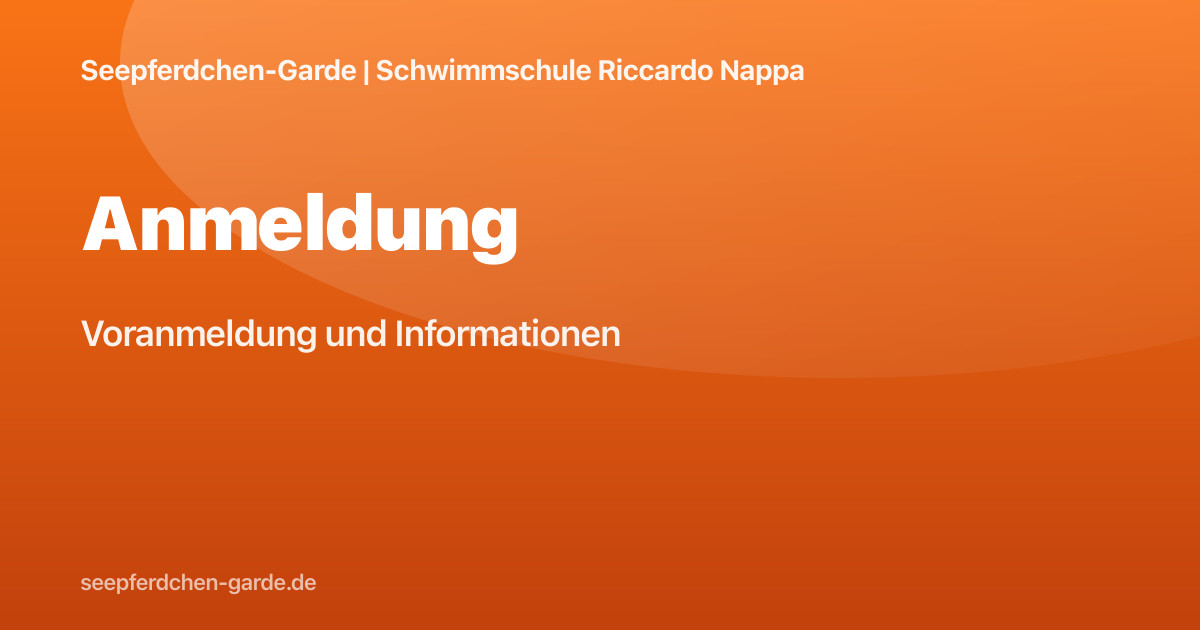
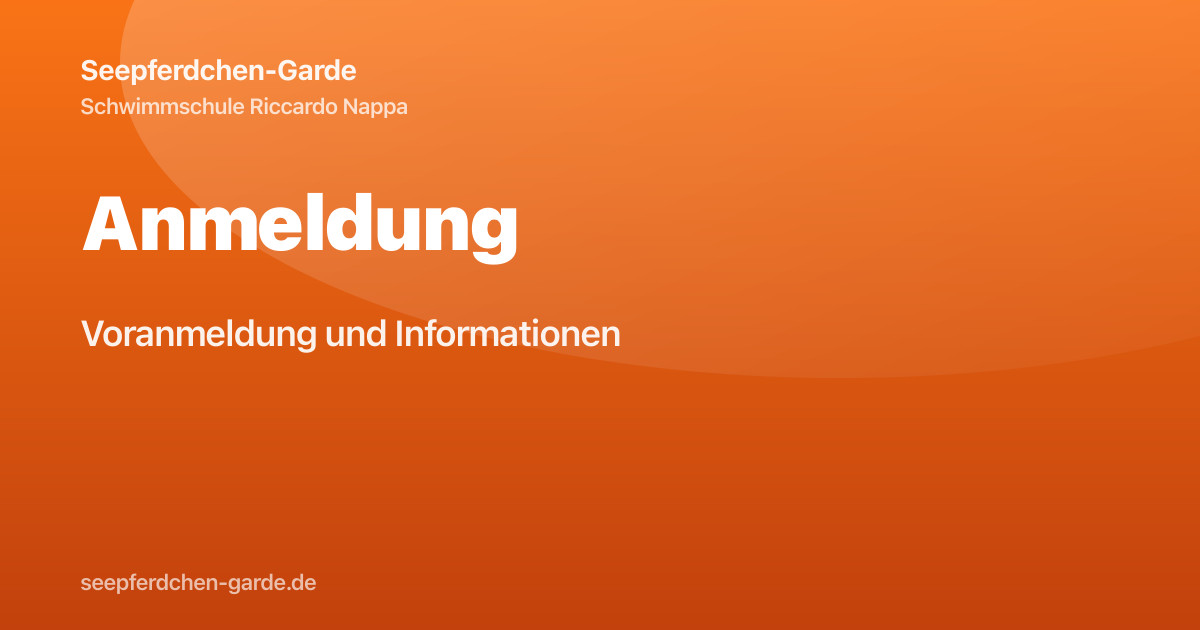
feat(app): create Haftungsausschluss docs and page

Changed region(s): [[0.0617, 0.0905, 0.6783, 0.181]]

diff --git a/generate-og.js b/generate-og.js
@@ -6,7 +6,9 @@ const sharp = require('sharp');
 const OUT_DIR = path.join(process.cwd(), 'public', 'assets', 'og');
 const WIDTH = 1200;
 const HEIGHT = 630;
-const BRAND = 'Seepferdchen‑Garde | Schwimmschule Riccardo Nappa';
+const BRAND = 'Seepferdchen‑Garde';
+const BRAND_SUBLINE = 'Schwimmschule Riccardo Nappa';
+
 
 const pages = [
   {slug: 'start', title: 'Startseite', subtitle: 'Schwimmschule Riccardo Nappa'},
@@ -15,6 +17,7 @@ const pages = [
   {slug: 'kontakt', title: 'Kontakt', subtitle: 'Telefon, WhatsApp oder Kontaktformular'},
   {slug: 'anmeldung', title: 'Anmeldung', subtitle: 'Voranmeldung und Informationen'},
   {slug: 'impressum', title: 'Impressum', subtitle: 'Anbieterkennzeichnung und Kontakt'},
+  {slug: 'haftungsausschluss', title: 'Haftungsausschluss', subtitle: 'Haftungsausschluss für die Teilnahme am Schwimmkurs'},
   {slug: 'datenschutz', title: 'Datenschutzerklärung', subtitle: 'Informationen zum Datenschutz'},
 ];
 
@@ -26,6 +29,7 @@ const palettes = {
   kontakt: ['#06b6d4', '#0e7490'],
   anmeldung: ['#f97316', '#c2410c'],
   impressum: ['#64748b', '#334155'],
+  haftungsausschluss: ['#f43f5e', '#9f1239'],
   datenschutz: ['#14b8a6', '#0f766e'],
 };
 
@@ -52,7 +56,7 @@ function escapeXml(str) {
     .replace(/>/g, '&gt;');
 }
 
-function makeSVG({title, subtitle, brand, colors}) {
+function makeSVG({title, subtitle, brand, brandSubline, colors}) {
   const [c1, c2] = colors;
   const pad = 80;
   const titleLines = wrapLines(title, 22);
@@ -92,6 +96,10 @@ function makeSVG({title, subtitle, brand, colors}) {
   <text x="${pad}" y="${pad}" fill="rgba(255,255,255,0.92)" font-family="system-ui, -apple-system, Segoe UI, Roboto, Arial, sans-serif" font-size="28" font-weight="700">
     ${escapeXml(brand)}
   </text>
+  <!-- Brand subline -->
+  <text x="${pad}" y="${pad + 34}" fill="rgba(255,255,255,0.75)" font-family="system-ui, -apple-system, Segoe UI, Roboto, Arial, sans-serif" font-size="22" font-weight="600">
+    ${escapeXml(brandSubline || '')}
+  </text>
 
   <!-- Title -->
   <text x="${pad}" y="${titleYStart}" fill="#ffffff" font-family="system-ui, -apple-system, Segoe UI, Roboto, Arial, sans-serif" font-size="76" font-weight="800" letter-spacing="0.5">
@@ -117,7 +125,7 @@ async function ensureOutDir() {
 
 async function generateOne({slug, title, subtitle}) {
   const colors = palettes[slug] || ['#0ea5e9', '#0369a1'];
-  const svg = makeSVG({title, subtitle, brand: BRAND, colors});
+  const svg = makeSVG({title, subtitle, brand: BRAND, brandSubline: BRAND_SUBLINE, colors});
   const outFile = path.join(OUT_DIR, `${slug}.jpg`);
   await sharp(Buffer.from(svg))
     .jpeg({quality: 90, progressive: true, chromaSubsampling: '4:4:4'})

diff --git a/assets/styles/theme.css b/assets/styles/theme.css
@@ -49,10 +49,24 @@ a[href^="https://wa.me/"] svg {
 }
 
 /* === Selection colors per theme for readability === */
-[data-bs-theme="light"] ::selection { background-color: #0ea5e9; color: #ffffff; }
-[data-bs-theme="light"] ::-moz-selection { background-color: #0ea5e9; color: #ffffff; }
-[data-bs-theme="dark"] ::selection { background-color: #93c5fd; color: #0b1220; }
-[data-bs-theme="dark"] ::-moz-selection { background-color: #93c5fd; color: #0b1220; }
+[data-bs-theme="light"] ::selection {
+    background-color: #0ea5e9;
+    color: #fff;
+}
+
+[data-bs-theme="light"] ::selection {
+    background-color: #0ea5e9;
+    color: #fff;
+}
+
+[data-bs-theme="dark"] ::selection {
+    background-color: #93c5fd; color: #0b1220;
+}
+
+[data-bs-theme="dark"] ::selection {
+    background-color: #93c5fd;
+    color: #0b1220;
+}
 
 /* === Shared Utilities === */
 .display-heading {

diff --git a/assets/styles/theme-dark.css b/assets/styles/theme-dark.css
@@ -74,7 +74,7 @@
 [data-bs-theme="dark"] .btn-outline-secondary {
     --bs-btn-color: #e5e7eb;
     --bs-btn-border-color: rgb(229 231 235 / 60%);
-    --bs-btn-hover-bg: #e5e7eb;
+    --bs-btn-hover-bg: rgb(202 196 196 / 40%);;
     --bs-btn-hover-border-color: #e5e7eb;
     --bs-btn-hover-color: #111827;
 }

diff --git a/assets/styles/carousel.css b/assets/styles/carousel.css
@@ -118,7 +118,7 @@
   color: #fff;
   background-color: #ff6b00; /* signal orange */
   border-color: #ff6b00;
-    box-shadow: 0 0.25rem 0.75rem rgb(0 0 0 / 30%);
+  box-shadow: 0 0.25rem 0.75rem rgb(0 0 0 / 30%);
 }
 
 .btn-cta:hover,

diff --git a/src/Form/BookingFormType.php b/src/Form/BookingFormType.php
@@ -157,7 +157,8 @@ class BookingFormType extends AbstractType
                 'label_attr'  => ['class' => 'form-check-label'],
             ])
             ->add('liabilityAcknowledged', CheckboxType::class, [
-                'label'       => 'Ich habe den Haftungsausschluss zur Kenntnis genommen.',
+                'label'       => 'Ich habe den <a href="/haftungsausschluss" target="_blank" rel="noopener">Haftungsausschluss</a> zur Kenntnis genommen.',
+                'label_html'  => true,
                 'required'    => true,
                 'constraints' => [new Assert\IsTrue(message: 'Bitte bestätigen Sie den Haftungsausschluss.')],
                 'attr'        => ['class' => 'form-check-input'],
@@ -170,7 +171,8 @@ class BookingFormType extends AbstractType
                 'label_attr' => ['class' => 'form-check-label'],
             ])
             ->add('dataConsent', CheckboxType::class, [
-                'label'       => 'Ich stimme der Verarbeitung meiner Daten zur Kursorganisation zu.',
+                'label'       => 'Ich stimme der Verarbeitung meiner Daten gemäß <a href="/datenschutz" target="_blank" rel="noopener">Datenschutzerklärung</a> zu.',
+                'label_html'  => true,
                 'required'    => true,
                 'constraints' => [new Assert\IsTrue(message: 'Bitte stimmen Sie der Datenverarbeitung zu.')],
                 'attr'        => ['class' => 'form-check-input'],

diff --git a/content/_pages.php b/content/_pages.php
@@ -61,18 +61,29 @@ return [
         'title' => 'Impressum',
         'description' => 'Impressum der Schwimmschule Seepferdchen‑Garde – gesetzliche Anbieterkennzeichnung und Kontakt.',
         'cms' => true,
-        'nav' => true,
+        'nav' => false,
         'nav_label' => 'Impressum',
         'nav_order' => 90,
         'canonical' => '/impressum',
         'robots' => 'index,follow',
         'og_image' => '/assets/og/impressum.jpg',
     ],
+    'haftungsausschluss' => [
+        'title' => 'Haftungsausschluss',
+        'description' => 'Haftungsausschluss für die Teilnahme am Schwimmkurs der Seepferdchen‑Garde.',
+        'cms' => true,
+        'nav' => false,
+        'nav_label' => 'Haftungsausschluss',
+        'nav_order' => 95,
+        'canonical' => '/haftungsausschluss',
+        'robots' => 'index,follow',
+        'og_image' => '/assets/og/haftungsausschluss.jpg',
+    ],
     'datenschutz' => [
         'title' => 'Datenschutzerklärung',
         'description' => 'Datenschutzerklärung: Informationen zur Verarbeitung personenbezogener Daten, Kontakt und Rechte.',
         'cms' => true,
-        'nav' => true,
+        'nav' => false,
         'nav_label' => 'Datenschutz',
         'nav_order' => 100,
         'canonical' => '/datenschutz',

diff --git a/content/haftungsausschluss.md b/content/haftungsausschluss.md
@@ -1,0 +1,34 @@
+# Haftungsausschluss
+
+<p class="lead"><strong>Disclaimer – Transparenzhinweis:</strong> Als Schwimmschule sind wir verpflichtet, bestimmte Risiken angemessen abzusichern. Die nachfolgenden Haftungsregelungen greifen nur in seltenen Ausnahmefällen, dienen der fairen und rechtssicheren Abwicklung und ermöglichen es uns, unsere Kurse dauerhaft sicher, qualitativ hochwertig und zu fairen Konditionen anzubieten.</p>
+
+## Geltungsbereich
+
+Dieser Haftungsausschluss gilt für die Teilnahme am Schwimmkurs der Seepferdchen‑Garde.
+
+## Teilnahme auf eigene Verantwortung
+
+- Die Teilnahme am Schwimmkurs erfolgt auf eigene Verantwortung.
+- Der Kursleiter bzw. Veranstalter haftet nicht für Personen‑ oder Sachschäden, soweit diese nicht auf Vorsatz oder grober Fahrlässigkeit beruhen.
+- Für mitgebrachte Wertgegenstände und Kleidung wird keine Haftung übernommen.
+
+## Gesundheit und Sicherheit
+
+- Ich bestätige, dass mein Kind gesundheitlich in der Lage ist, am Schwimmkurs teilzunehmen.
+- Den Anweisungen des Kursleiters ist Folge zu leisten. Bei wiederholter Zuwiderhandlung kann die Teilnahme ausgeschlossen werden; ein Anspruch auf Rückerstattung der Kursgebühr besteht in diesem Fall nicht.
+
+## Einverständniserklärung
+
+<p class="lead"><strong>Bitte beachten Sie:</strong> Mit der Anmeldung Ihres Kindes zum Schwimmkurs erkennen Sie diesen Haftungsausschluss an.</p>
+
+<div class="d-flex mb-3">
+  <a href="/docs/haftungsausschluss.pdf" class="btn btn-outline-secondary" target="_blank" rel="noopener" aria-label="Haftungsausschluss als PDF öffnen">Haftungsausschluss als PDF Dokument herunterladen</a>
+</div>
+
+## Kontakt
+
+**Fragen?** Nutzen Sie gern das [Kontaktformular](/kontakt) unter [/kontakt](/kontakt) oder schreiben Sie eine E‑Mail an <span class="contact-email tap-target"></span>.
+
+---
+
+_Stand: 2025_

diff --git a/public/docs/haftungsausschluss.md b/public/docs/haftungsausschluss.md
@@ -1,0 +1,26 @@
+# Haftungsausschluss
+
+Mit der Anmeldung meines Kindes zum Seepferdchen-Schwimmkurs erkenne ich folgenden Haftungsausschluss an:
+
+## Geltungsbereich
+
+Dieser Haftungsausschluss gilt für die Teilnahme am Schwimmkurs der Seepferdchen‑Garde.
+
+## Teilnahme auf eigene Verantwortung
+
+- Die Teilnahme am Schwimmkurs erfolgt auf eigene Verantwortung.
+- Der Kursleiter bzw. Veranstalter haftet nicht für Personen‑ oder Sachschäden, soweit diese nicht auf Vorsatz oder grober Fahrlässigkeit beruhen.
+- Für mitgebrachte Wertgegenstände und Kleidung wird keine Haftung übernommen.
+
+## Gesundheit und Sicherheit
+
+- Ich bestätige, dass mein Kind gesundheitlich in der Lage ist, am Schwimmkurs teilzunehmen.
+- Den Anweisungen des Kursleiters ist Folge zu leisten. Bei wiederholter Zuwiderhandlung kann die Teilnahme ausgeschlossen werden; ein Anspruch auf Rückerstattung der Kursgebühr besteht in diesem Fall nicht.
+
+## Einverständniserklärung
+
+Mit der Anmeldung meines Kindes zum Schwimmkurs erkenne ich diesen Haftungsausschluss an.
+
+Ort, Datum: ______________________
+
+Unterschrift Erziehungsberechtigte(r): ______________________

diff --git a/content/datenschutz.md b/content/datenschutz.md
@@ -13,7 +13,7 @@ Der Schutz von personenbezogenen Daten ist mir wichtig. Ich verarbeite Daten ver
     52134 Herzogenrath
 </address>
 
-Telefon: <span id="contact-phone" class="tap-target"></span>&nbsp;<span id="contact-whatsapp" class="tap-target text-decoration-none"></span>  
+Telefon: <span id="contact-phone" class="tap-target"></span>&nbsp;<span class="contact-whatsapp tap-target text-decoration-none"></span>  
 E‑Mail: <span class="contact-email tap-target"></span>
 
 ## Hosting und Server‑Logfiles
@@ -81,4 +81,4 @@ Diese Datenschutzerklärung wird bei Bedarf aktualisiert.
 
 ## Kontakt
 
-Ich bin jederzeit über mein [Kontaktformular](/kontakt) oder direkt über **WhatsApp** erreichbar.
+Ich bin jederzeit über mein [Kontaktformular](/kontakt) oder direkt über <span class="contact-whatsapp tap-target text-decoration-none"><strong>WhatsApp</strong></span> erreichbar.
